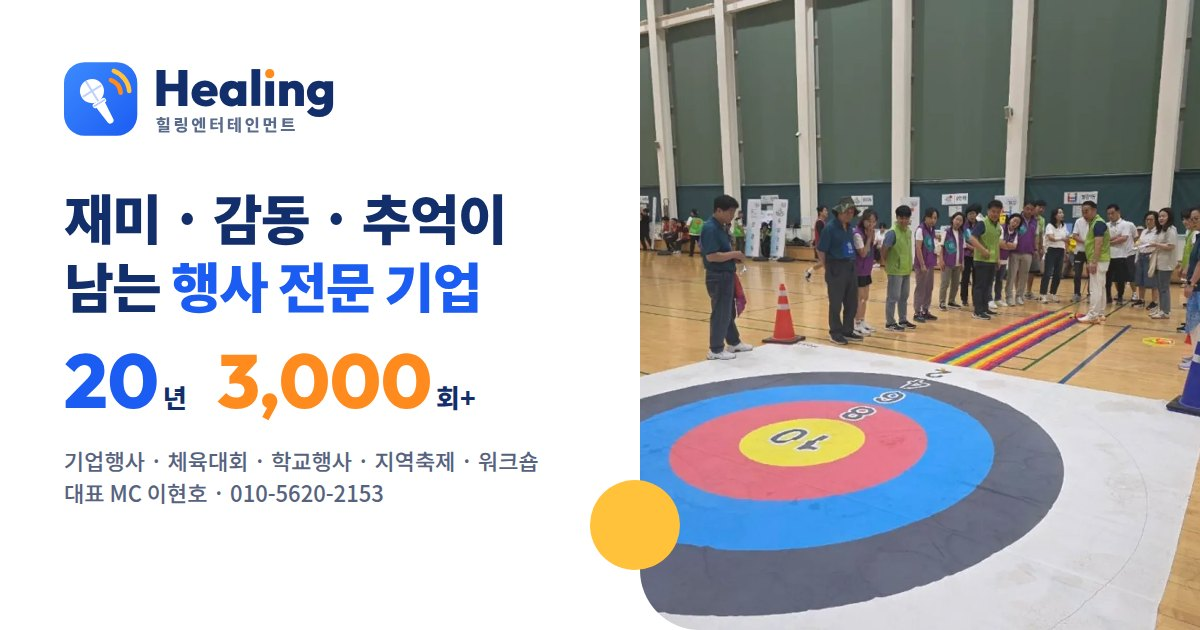
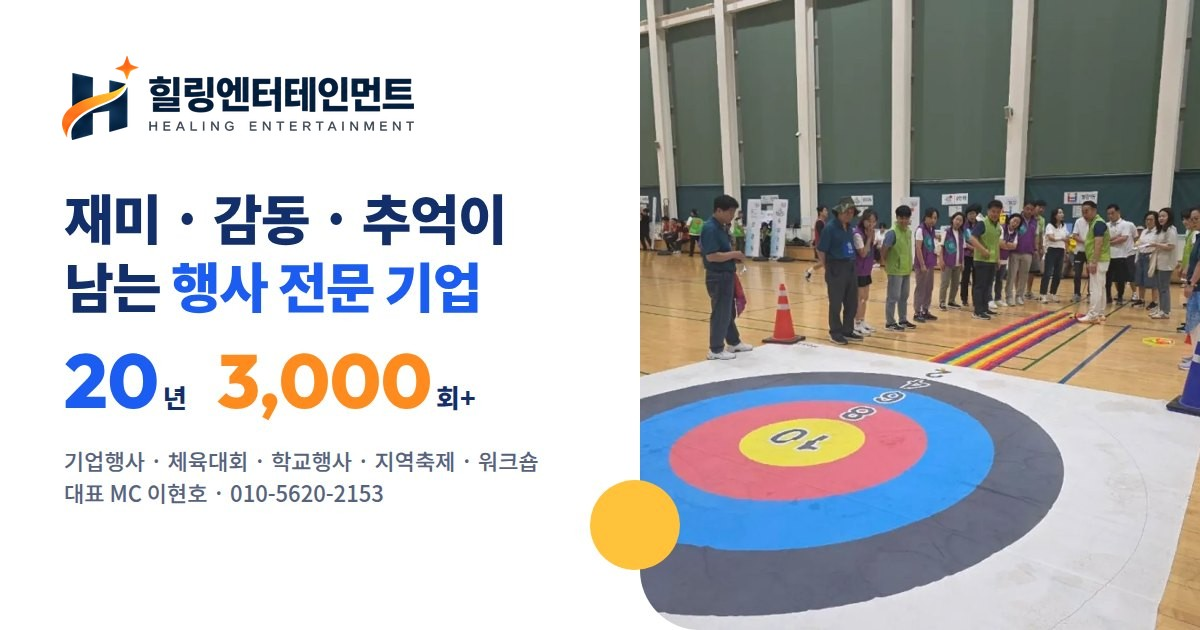
로고 교체 — 대표님 새 로고(H + 별 · 주황 물결): 머리글 · 바닥글 · 흰색판 · 마크 · 파비콘 · 공유 그림

Changed region(s): [[0.0308, 0.0905, 0.3392, 0.2413]]

diff --git a/assets/style.css b/assets/style.css
@@ -38,7 +38,7 @@ input,select,textarea{font:inherit;color:inherit}
 .hd{position:sticky;top:0;z-index:50;background:rgba(255,255,255,.94);backdrop-filter:saturate(1.4) blur(10px);-webkit-backdrop-filter:saturate(1.4) blur(10px);border-bottom:1px solid transparent;transition:.25s}
 .hd.stuck{border-color:var(--line);box-shadow:0 6px 20px rgba(19,47,107,.06)}
 .hd .wrap{display:flex;align-items:center;gap:22px;height:var(--hd)}
-.hd .logo img{height:44px;width:auto}
+.hd .logo img{height:50px;width:auto}
 .hd .menu{display:flex;gap:4px;margin-left:auto}
 .hd .menu a{padding:8px 12px;border-radius:10px;font-weight:600;font-size:15.5px;color:var(--ink);position:relative}
 .hd .menu a:hover{color:var(--blue);background:var(--sky)}
@@ -485,7 +485,7 @@ input,select,textarea{font:inherit;color:inherit}
   :root{--hd:62px}
   body{font-size:15.5px;padding-bottom:70px}
   .wrap{width:calc(100% - 32px)}
-  .hd .logo img{height:38px}
+  .hd .logo img{height:42px}
   .sec{padding:72px 0}
   .sh{flex-direction:column;align-items:flex-start;gap:12px;margin-bottom:30px}
   .hero{padding:10px 0 44px}

diff --git a/areas/dobong.html b/areas/dobong.html
@@ -20,7 +20,7 @@
 <link rel="icon" href="../assets/img/favicon.svg" type="image/svg+xml">
 <link rel="preconnect" href="https://fonts.googleapis.com"><link rel="preconnect" href="https://fonts.gstatic.com" crossorigin>
 <link href="https://fonts.googleapis.com/css2?family=Noto+Sans+KR:wght@400;500;600;700;800;900&family=Outfit:wght@600;700;800&display=swap" rel="stylesheet">
-<link rel="stylesheet" href="../assets/style.css?v=24">
+<link rel="stylesheet" href="../assets/style.css?v=25">
 <script defer src="https://www.ai-make.co.kr/stats/stats.js" data-site="healing"></script>
 </head>
 <body>

diff --git a/areas/dongdaemun.html b/areas/dongdaemun.html
@@ -20,7 +20,7 @@
 <link rel="icon" href="../assets/img/favicon.svg" type="image/svg+xml">
 <link rel="preconnect" href="https://fonts.googleapis.com"><link rel="preconnect" href="https://fonts.gstatic.com" crossorigin>
 <link href="https://fonts.googleapis.com/css2?family=Noto+Sans+KR:wght@400;500;600;700;800;900&family=Outfit:wght@600;700;800&display=swap" rel="stylesheet">
-<link rel="stylesheet" href="../assets/style.css?v=24">
+<link rel="stylesheet" href="../assets/style.css?v=25">
 <script defer src="https://www.ai-make.co.kr/stats/stats.js" data-site="healing"></script>
 </head>
 <body>

diff --git a/areas/eunpyeong.html b/areas/eunpyeong.html
@@ -20,7 +20,7 @@
 <link rel="icon" href="../assets/img/favicon.svg" type="image/svg+xml">
 <link rel="preconnect" href="https://fonts.googleapis.com"><link rel="preconnect" href="https://fonts.gstatic.com" crossorigin>
 <link href="https://fonts.googleapis.com/css2?family=Noto+Sans+KR:wght@400;500;600;700;800;900&family=Outfit:wght@600;700;800&display=swap" rel="stylesheet">
-<link rel="stylesheet" href="../assets/style.css?v=24">
+<link rel="stylesheet" href="../assets/style.css?v=25">
 <script defer src="https://www.ai-make.co.kr/stats/stats.js" data-site="healing"></script>
 </head>
 <body>

diff --git a/areas/gangbuk.html b/areas/gangbuk.html
@@ -20,7 +20,7 @@
 <link rel="icon" href="../assets/img/favicon.svg" type="image/svg+xml">
 <link rel="preconnect" href="https://fonts.googleapis.com"><link rel="preconnect" href="https://fonts.gstatic.com" crossorigin>
 <link href="https://fonts.googleapis.com/css2?family=Noto+Sans+KR:wght@400;500;600;700;800;900&family=Outfit:wght@600;700;800&display=swap" rel="stylesheet">
-<link rel="stylesheet" href="../assets/style.css?v=24">
+<link rel="stylesheet" href="../assets/style.css?v=25">
 <script defer src="https://www.ai-make.co.kr/stats/stats.js" data-site="healing"></script>
 </head>
 <body>

diff --git a/areas/index.html b/areas/index.html
@@ -20,7 +20,7 @@
 <link rel="icon" href="../assets/img/favicon.svg" type="image/svg+xml">
 <link rel="preconnect" href="https://fonts.googleapis.com"><link rel="preconnect" href="https://fonts.gstatic.com" crossorigin>
 <link href="https://fonts.googleapis.com/css2?family=Noto+Sans+KR:wght@400;500;600;700;800;900&family=Outfit:wght@600;700;800&display=swap" rel="stylesheet">
-<link rel="stylesheet" href="../assets/style.css?v=24">
+<link rel="stylesheet" href="../assets/style.css?v=25">
 <script defer src="https://www.ai-make.co.kr/stats/stats.js" data-site="healing"></script>
 </head>
 <body>

diff --git a/areas/jungnang.html b/areas/jungnang.html
@@ -20,7 +20,7 @@
 <link rel="icon" href="../assets/img/favicon.svg" type="image/svg+xml">
 <link rel="preconnect" href="https://fonts.googleapis.com"><link rel="preconnect" href="https://fonts.gstatic.com" crossorigin>
 <link href="https://fonts.googleapis.com/css2?family=Noto+Sans+KR:wght@400;500;600;700;800;900&family=Outfit:wght@600;700;800&display=swap" rel="stylesheet">
-<link rel="stylesheet" href="../assets/style.css?v=24">
+<link rel="stylesheet" href="../assets/style.css?v=25">
 <script defer src="https://www.ai-make.co.kr/stats/stats.js" data-site="healing"></script>
 </head>
 <body>

diff --git a/areas/namyangju.html b/areas/namyangju.html
@@ -20,7 +20,7 @@
 <link rel="icon" href="../assets/img/favicon.svg" type="image/svg+xml">
 <link rel="preconnect" href="https://fonts.googleapis.com"><link rel="preconnect" href="https://fonts.gstatic.com" crossorigin>
 <link href="https://fonts.googleapis.com/css2?family=Noto+Sans+KR:wght@400;500;600;700;800;900&family=Outfit:wght@600;700;800&display=swap" rel="stylesheet">
-<link rel="stylesheet" href="../assets/style.css?v=24">
+<link rel="stylesheet" href="../assets/style.css?v=25">
 <script defer src="https://www.ai-make.co.kr/stats/stats.js" data-site="healing"></script>
 </head>
 <body>

diff --git a/areas/nowon.html b/areas/nowon.html
@@ -20,7 +20,7 @@
 <link rel="icon" href="../assets/img/favicon.svg" type="image/svg+xml">
 <link rel="preconnect" href="https://fonts.googleapis.com"><link rel="preconnect" href="https://fonts.gstatic.com" crossorigin>
 <link href="https://fonts.googleapis.com/css2?family=Noto+Sans+KR:wght@400;500;600;700;800;900&family=Outfit:wght@600;700;800&display=swap" rel="stylesheet">
-<link rel="stylesheet" href="../assets/style.css?v=24">
+<link rel="stylesheet" href="../assets/style.css?v=25">
 <script defer src="https://www.ai-make.co.kr/stats/stats.js" data-site="healing"></script>
 </head>
 <body>

diff --git a/areas/seongbuk.html b/areas/seongbuk.html
@@ -20,7 +20,7 @@
 <link rel="icon" href="../assets/img/favicon.svg" type="image/svg+xml">
 <link rel="preconnect" href="https://fonts.googleapis.com"><link rel="preconnect" href="https://fonts.gstatic.com" crossorigin>
 <link href="https://fonts.googleapis.com/css2?family=Noto+Sans+KR:wght@400;500;600;700;800;900&family=Outfit:wght@600;700;800&display=swap" rel="stylesheet">
-<link rel="stylesheet" href="../assets/style.css?v=24">
+<link rel="stylesheet" href="../assets/style.css?v=25">
 <script defer src="https://www.ai-make.co.kr/stats/stats.js" data-site="healing"></script>
 </head>
 <body>

diff --git a/areas/uijeongbu.html b/areas/uijeongbu.html
@@ -20,7 +20,7 @@
 <link rel="icon" href="../assets/img/favicon.svg" type="image/svg+xml">
 <link rel="preconnect" href="https://fonts.googleapis.com"><link rel="preconnect" href="https://fonts.gstatic.com" crossorigin>
 <link href="https://fonts.googleapis.com/css2?family=Noto+Sans+KR:wght@400;500;600;700;800;900&family=Outfit:wght@600;700;800&display=swap" rel="stylesheet">
-<link rel="stylesheet" href="../assets/style.css?v=24">
+<link rel="stylesheet" href="../assets/style.css?v=25">
 <script defer src="https://www.ai-make.co.kr/stats/stats.js" data-site="healing"></script>
 </head>
 <body>

diff --git a/stories/childcare-conference.html b/stories/childcare-conference.html
@@ -20,7 +20,7 @@
 <link rel="icon" href="../assets/img/favicon.svg" type="image/svg+xml">
 <link rel="preconnect" href="https://fonts.googleapis.com"><link rel="preconnect" href="https://fonts.gstatic.com" crossorigin>
 <link href="https://fonts.googleapis.com/css2?family=Noto+Sans+KR:wght@400;500;600;700;800;900&family=Outfit:wght@600;700;800&display=swap" rel="stylesheet">
-<link rel="stylesheet" href="../assets/style.css?v=24">
+<link rel="stylesheet" href="../assets/style.css?v=25">
 <script defer src="https://www.ai-make.co.kr/stats/stats.js" data-site="healing"></script>
 </head>
 <body>
